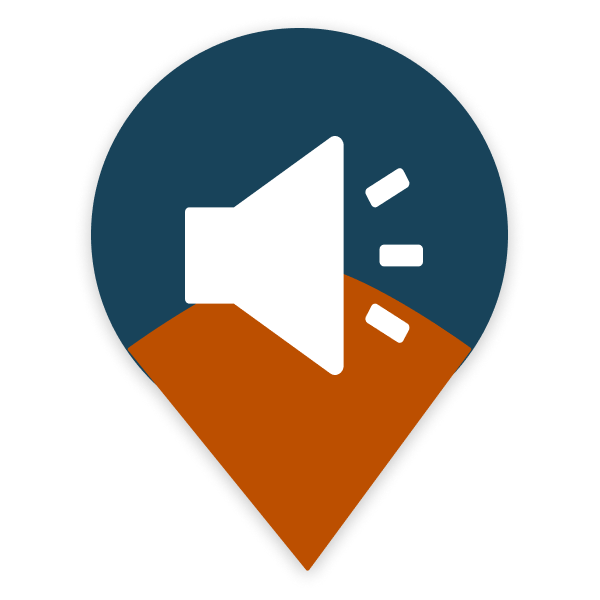
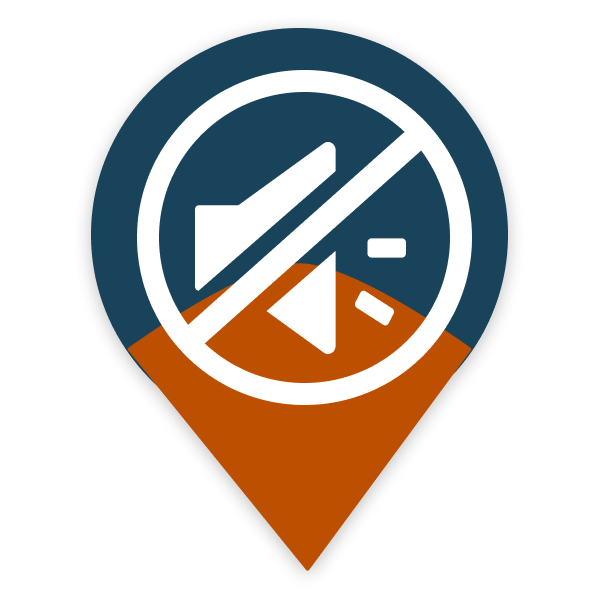
Updated NA Marker pins and debug in settings.py

Changed region(s): [[0.21, 0.09, 0.81, 0.69], [0.45, 0.27, 0.48, 0.3], [0.42, 0.3, 0.45, 0.33]]

diff --git a/NYCAccessibleStreet/settings.py b/NYCAccessibleStreet/settings.py
@@ -24,7 +24,7 @@ BASE_DIR = Path(__file__).resolve(strict=True).parent.parent
 SECRET_KEY = config("SECRET_KEY")
 
 # SECURITY WARNING: don't run with debug turned on in production!
-DEBUG = config("DEBUG")
+DEBUG = config("DEBUG") == 'True'
 
 ALLOWED_HOSTS = [
     "localhost",
